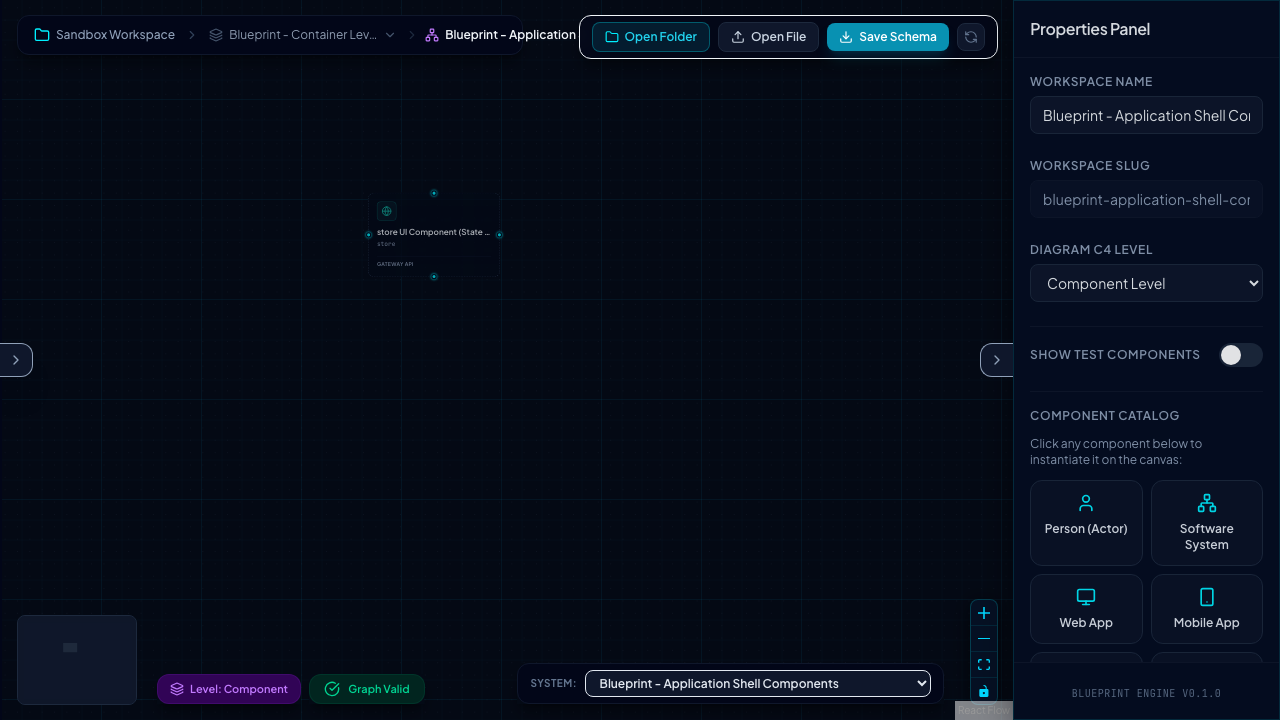
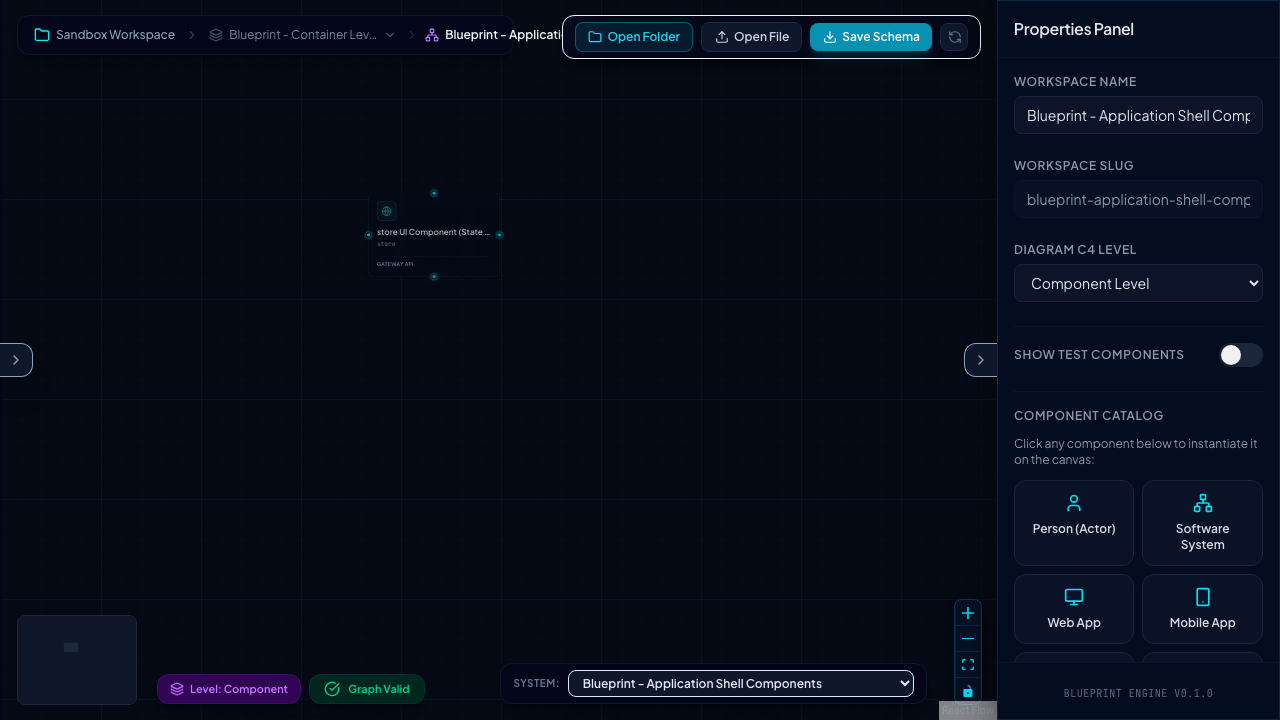
feat: migrate to wouter routing and split App into dedicated Workspace and DesignSystem pages

diff --git a/src/App.tsx b/src/App.tsx
@@ -1,124 +1,15 @@
-import { useEffect, useRef } from 'react';
-import { ReactFlowProvider } from '@xyflow/react';
-import { ChevronLeft, ChevronRight } from 'lucide-react';
-import { CodeViewer } from './components/CodeViewer';
-import { Canvas } from './components/Canvas';
-import { PropertyPanel } from './components/PropertyPanel';
-import { DesignSystemShowcase } from './components/DesignSystemShowcase';
-import { useBlueprintStore } from './store/store';
-import { slugify } from './domain/slug';
+import { Route, Switch } from 'wouter';
+import { WorkspacePage } from './pages/WorkspacePage';
+import { DesignSystemPage } from './pages/DesignSystemPage';
 
 function App() {
-  const {
-    leftCollapsed,
-    rightCollapsed,
-    toggleLeftCollapsed,
-    toggleRightCollapsed,
-    workspaceName,
-    schema,
-    loadedSystems,
-    selectSystem,
-    currentFilePath,
-    showDesignSystem,
-    setShowDesignSystem,
-  } = useBlueprintStore();
-
-  const initialSyncRef = useRef(false);
-
-  useEffect(() => {
-    if (initialSyncRef.current) return;
-
-    const match = window.location.pathname.match(/^\/workspace\/([^/]+)$/);
-    if (match) {
-      const slug = match[1];
-      const found = loadedSystems.find(sys => {
-        const sysName = sys.schema?.name || sys.name || sys.path;
-        return slugify(sysName) === slug;
-      });
-      if (found) {
-        if (found.path !== currentFilePath) {
-          selectSystem(found.path);
-        }
-        initialSyncRef.current = true;
-      }
-    }
-  }, [loadedSystems, currentFilePath, selectSystem]);
-
-  useEffect(() => {
-    const handlePopState = () => {
-      const match = window.location.pathname.match(/^\/workspace\/([^/]+)$/);
-      if (match) {
-        const slug = match[1];
-        const currentName = workspaceName || schema.name;
-        if (currentName && slugify(currentName) !== slug) {
-          const found = loadedSystems.find(sys => {
-            const sysName = sys.schema?.name || sys.name || sys.path;
-            return slugify(sysName) === slug;
-          });
-          if (found) {
-            selectSystem(found.path);
-          }
-        }
-      }
-    };
-
-    window.addEventListener('popstate', handlePopState);
-    return () => window.removeEventListener('popstate', handlePopState);
-  }, [workspaceName, schema.name, loadedSystems, selectSystem]);
-
-  useEffect(() => {
-    const name = workspaceName || schema.name;
-    if (!name) return;
-    const slug = slugify(name);
-    const expectedPath = `/workspace/${slug}`;
-    if (window.location.pathname !== expectedPath) {
-      const isInitial = window.location.pathname === '/' || window.location.pathname === '';
-      if (isInitial) {
-        window.history.replaceState({}, '', expectedPath + window.location.search);
-      } else {
-        window.history.pushState({}, '', expectedPath + window.location.search);
-      }
-    }
-  }, [workspaceName, schema.name]);
-
   return (
-    <ReactFlowProvider>
-      <div className="flex h-screen w-screen bg-slate-950 overflow-hidden text-slate-100 selection:bg-brand-600/30 relative">
-        <CodeViewer />
-        <Canvas />
-        <PropertyPanel />
-
-        {showDesignSystem && <DesignSystemShowcase onClose={() => setShowDesignSystem(false)} />}
-
-        <button
-          onClick={toggleLeftCollapsed}
-          className="absolute top-1/2 -translate-y-1/2 z-50 bg-slate-900 border border-slate-850 hover:border-slate-700 text-slate-400 hover:text-slate-200 hover:bg-slate-850 p-2 rounded-r-xl shadow-2xl transition-all duration-300 ease-in-out focus:outline-none cursor-pointer flex items-center justify-center border-l-0"
-          style={{ left: leftCollapsed ? '0px' : '384px' }}
-          aria-label="Toggle Left Panel"
-          title={leftCollapsed ? 'Expand Schema Explorer' : 'Collapse Schema Explorer'}
-        >
-          {leftCollapsed ? (
-            <ChevronRight className="w-4 h-4" />
-          ) : (
-            <ChevronLeft className="w-4 h-4" />
-          )}
-        </button>
-
-        <button
-          onClick={toggleRightCollapsed}
-          className="absolute top-1/2 -translate-y-1/2 z-50 bg-slate-900 border border-slate-850 hover:border-slate-700 text-slate-400 hover:text-slate-200 hover:bg-slate-850 p-2 rounded-l-xl shadow-2xl transition-all duration-300 ease-in-out focus:outline-none cursor-pointer flex items-center justify-center border-r-0"
-          style={{ right: rightCollapsed ? '0px' : '320px' }}
-          aria-label="Toggle Right Panel"
-          title={rightCollapsed ? 'Expand Properties Panel' : 'Collapse Properties Panel'}
-        >
-          {rightCollapsed ? (
-            <ChevronLeft className="w-4 h-4" />
-          ) : (
-            <ChevronRight className="w-4 h-4" />
-          )}
-        </button>
-      </div>
-    </ReactFlowProvider>
+    <Switch>
+      <Route path="/design-system" component={DesignSystemPage} />
+      <Route path="/workspace/:slug" component={WorkspacePage} />
+      <Route path="/" component={WorkspacePage} />
+      <Route component={WorkspacePage} />
+    </Switch>
   );
 }
 

diff --git a/src/pages/WorkspacePage.tsx b/src/pages/WorkspacePage.tsx
@@ -1,0 +1,103 @@
+import React, { useEffect, useRef } from 'react';
+import { ReactFlowProvider } from '@xyflow/react';
+import { ChevronLeft, ChevronRight } from 'lucide-react';
+import { useLocation, useRoute } from 'wouter';
+import { CodeViewer } from '../components/CodeViewer';
+import { Canvas } from '../components/Canvas';
+import { PropertyPanel } from '../components/PropertyPanel';
+import { useBlueprintStore } from '../store/store';
+import { slugify } from '../domain/slug';
+
+export const WorkspacePage: React.FC = () => {
+  const {
+    leftCollapsed,
+    rightCollapsed,
+    toggleLeftCollapsed,
+    toggleRightCollapsed,
+    workspaceName,
+    schema,
+    loadedSystems,
+    selectSystem,
+    currentFilePath,
+  } = useBlueprintStore();
+
+  const [location, setLocation] = useLocation();
+  const [match, params] = useRoute('/workspace/:slug');
+
+  // Track the previous system file path to detect store-initiated changes
+  const prevFilePathRef = useRef(currentFilePath);
+  const storeChanged = currentFilePath !== prevFilePathRef.current;
+
+  useEffect(() => {
+    prevFilePathRef.current = currentFilePath;
+  }, [currentFilePath]);
+
+  useEffect(() => {
+    // If the store was updated in this render cycle, skip the URL sync effect
+    if (storeChanged) return;
+
+    if (match && params?.slug) {
+      const found = loadedSystems.find(sys => {
+        const sysName = sys.schema?.name || sys.name || sys.path;
+        return slugify(sysName) === params.slug;
+      });
+      if (found && found.path !== currentFilePath) {
+        selectSystem(found.path);
+      }
+    }
+  }, [match, params?.slug, loadedSystems, currentFilePath, selectSystem, storeChanged]);
+
+  useEffect(() => {
+    // Only redirect/sync pathname if we are on a workspace route or the root path
+    const isWorkspaceRoute =
+      location.startsWith('/workspace/') || location === '/' || location === '';
+    if (!isWorkspaceRoute) return;
+
+    const name = workspaceName || schema.name;
+    if (!name) return;
+    const slug = slugify(name);
+    const expectedPath = `/workspace/${slug}`;
+    if (location !== expectedPath) {
+      const isInitial = location === '/' || location === '';
+      setLocation(expectedPath, { replace: isInitial });
+    }
+  }, [workspaceName, schema.name, location, setLocation]);
+
+  return (
+    <ReactFlowProvider>
+      <div className="flex h-screen w-screen bg-slate-950 overflow-hidden text-slate-100 selection:bg-brand-600/30 relative">
+        <CodeViewer />
+        <Canvas />
+        <PropertyPanel />
+
+        <button
+          onClick={toggleLeftCollapsed}
+          className="absolute top-1/2 -translate-y-1/2 z-50 bg-slate-900 border border-slate-850 hover:border-slate-700 text-slate-400 hover:text-slate-200 hover:bg-slate-850 p-2 rounded-r-xl shadow-2xl transition-all duration-300 ease-in-out focus:outline-none cursor-pointer flex items-center justify-center border-l-0"
+          style={{ left: leftCollapsed ? '0px' : '384px' }}
+          aria-label="Toggle Left Panel"
+          title={leftCollapsed ? 'Expand Schema Explorer' : 'Collapse Schema Explorer'}
+        >
+          {leftCollapsed ? (
+            <ChevronRight className="w-4 h-4" />
+          ) : (
+            <ChevronLeft className="w-4 h-4" />
+          )}
+        </button>
+
+        <button
+          onClick={toggleRightCollapsed}
+          className="absolute top-1/2 -translate-y-1/2 z-50 bg-slate-900 border border-slate-850 hover:border-slate-700 text-slate-400 hover:text-slate-200 hover:bg-slate-850 p-2 rounded-l-xl shadow-2xl transition-all duration-300 ease-in-out focus:outline-none cursor-pointer flex items-center justify-center border-r-0"
+          style={{ right: rightCollapsed ? '0px' : '320px' }}
+          aria-label="Toggle Right Panel"
+          title={rightCollapsed ? 'Expand Properties Panel' : 'Collapse Properties Panel'}
+        >
+          {rightCollapsed ? (
+            <ChevronLeft className="w-4 h-4" />
+          ) : (
+            <ChevronRight className="w-4 h-4" />
+          )}
+        </button>
+      </div>
+    </ReactFlowProvider>
+  );
+};

diff --git a/src/App.test.tsx b/src/App.test.tsx
@@ -1,5 +1,5 @@
 import { describe, it, expect, vi } from 'vitest';
-import { render, screen, fireEvent } from '@testing-library/react';
+import { render, screen, fireEvent, waitFor } from '@testing-library/react';
 import App from './App';
 import { useBlueprintStore } from './store/store';
 
@@ -46,13 +46,13 @@ describe('App Layout and Collapsible Panels', () => {
 
     render(<App />);
 
-    expect(spyReplaceState).toHaveBeenCalledWith({}, '', '/workspace/my-super-cool-workspace');
+    expect(spyReplaceState).toHaveBeenCalledWith(null, '', '/workspace/my-super-cool-workspace');
 
     window.location = originalLocation as any;
     spyReplaceState.mockRestore();
   });
 
-  it('should switch systems in store when popstate event fires with a different slug', () => {
+  it('should switch systems in store when popstate event fires with a different slug', async () => {
     const originalLocation = window.location;
     delete (window as any).location;
     window.location = {
@@ -108,7 +108,9 @@ describe('App Layout and Collapsible Panels', () => {
     const popStateEvent = new PopStateEvent('popstate');
     window.dispatchEvent(popStateEvent);
 
-    expect(spySelectSystem).toHaveBeenCalledWith('target.yaml');
+    await waitFor(() => {
+      expect(spySelectSystem).toHaveBeenCalledWith('target.yaml');
+    });
 
     window.location = originalLocation as any;
     spySelectSystem.mockRestore();

diff --git a/src/components/CodeViewer.tsx b/src/components/CodeViewer.tsx
@@ -1,6 +1,7 @@
 import React, { useState, useEffect, useMemo } from 'react';
 import { Copy, Check, Upload, AlertCircle, Save } from 'lucide-react';
 import { useBlueprintStore } from '../store/store';
+import { useLocation } from 'wouter';
 import { serializeSchemaToMermaid, serializeSchemaToYaml } from '../domain/graph';
 import { MermaidPreview } from './MermaidPreview';
 
@@ -17,8 +18,10 @@ export const CodeViewer: React.FC = () => {
     isWorkspaceOpen,
     workspaceManifestYaml,
     saveWorkspaceManifest,
-    setShowDesignSystem,
   } = useBlueprintStore();
+
+  const [, setLocation] = useLocation();
+
   const [activeTab, setActiveTab] = useState<'yaml' | 'json' | 'mermaid' | 'manifest' | 'import'>(
     'yaml'
   );
@@ -111,7 +114,7 @@ export const CodeViewer: React.FC = () => {
         </div>
         <div className="flex items-center gap-2 shrink-0">
           <button
-            onClick={() => setShowDesignSystem(true)}
+            onClick={() => setLocation('/design-system')}
             className="p-1 px-2 border border-brand-500/30 text-brand-500 hover:text-brand-300 hover:border-brand-500 hover:bg-brand-950/20 rounded text-[10px] font-bold font-mono tracking-wider transition cursor-pointer flex items-center gap-1"
             title="Open Design System View"
           >

diff --git a/src/pages/DesignSystemPage.tsx b/src/pages/DesignSystemPage.tsx
@@ -1,0 +1,20 @@
+import React from 'react';
+import { useLocation } from 'wouter';
+import { useBlueprintStore } from '../store/store';
+import { slugify } from '../domain/slug';
+import { DesignSystemShowcase } from '../components/DesignSystemShowcase';
+
+export const DesignSystemPage: React.FC = () => {
+  const [, setLocation] = useLocation();
+  const { workspaceName, schema } = useBlueprintStore();
+
+  return (
+    <DesignSystemShowcase
+      onClose={() => {
+        const name = workspaceName || schema.name;
+        const slug = slugify(name);
+        setLocation(`/workspace/${slug}`);
+      }}
+    />
+  );
+};
